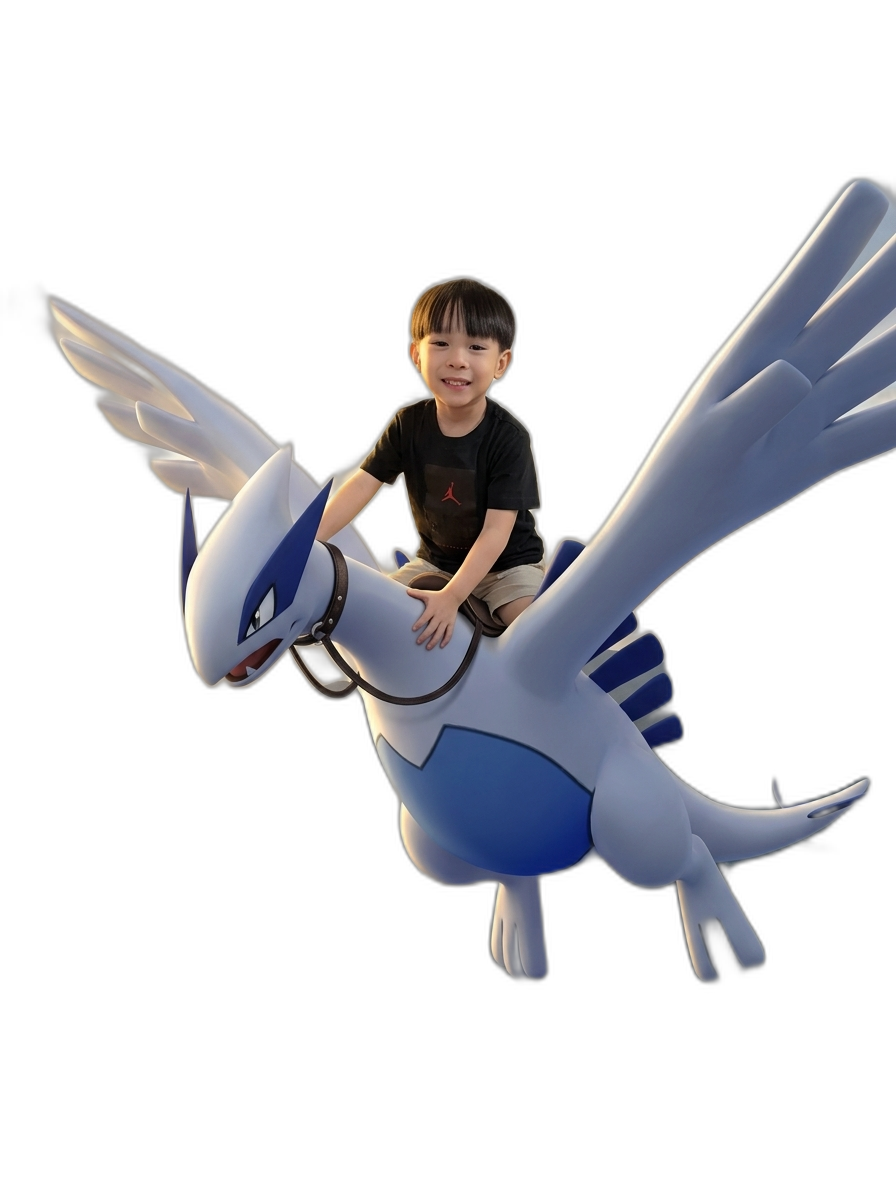
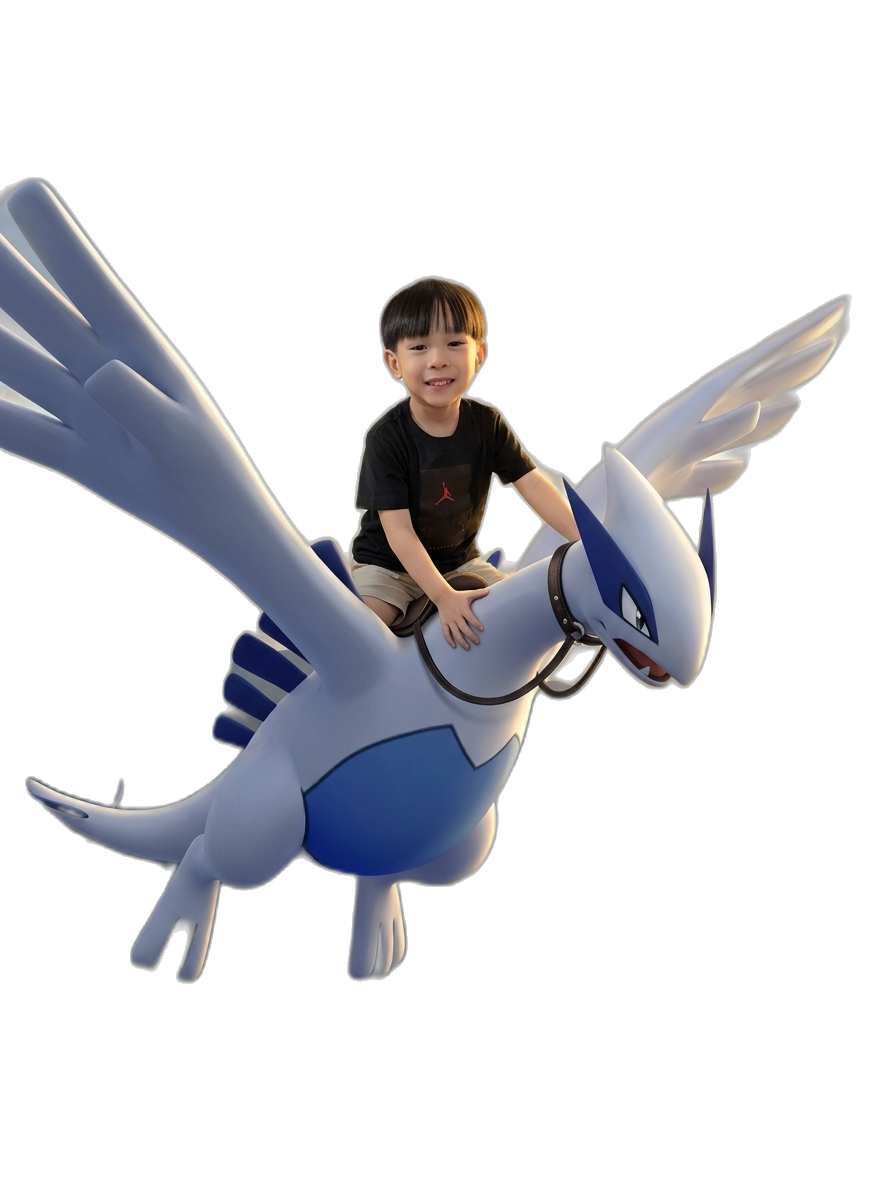
Flip Grayson+Lugia to face right, clean transparent edges, cache bust

diff --git a/index.html b/index.html
@@ -42,7 +42,7 @@ window.addEventListener('resize', resize);
 
 // --- Asset loading ---
 const playerImg = new Image();
-playerImg.src = 'grayson-lugia.png';
+playerImg.src = 'grayson-lugia.png?v=2';
 
 let assetsLoaded = false;
 playerImg.onload = () => { assetsLoaded = true; };
